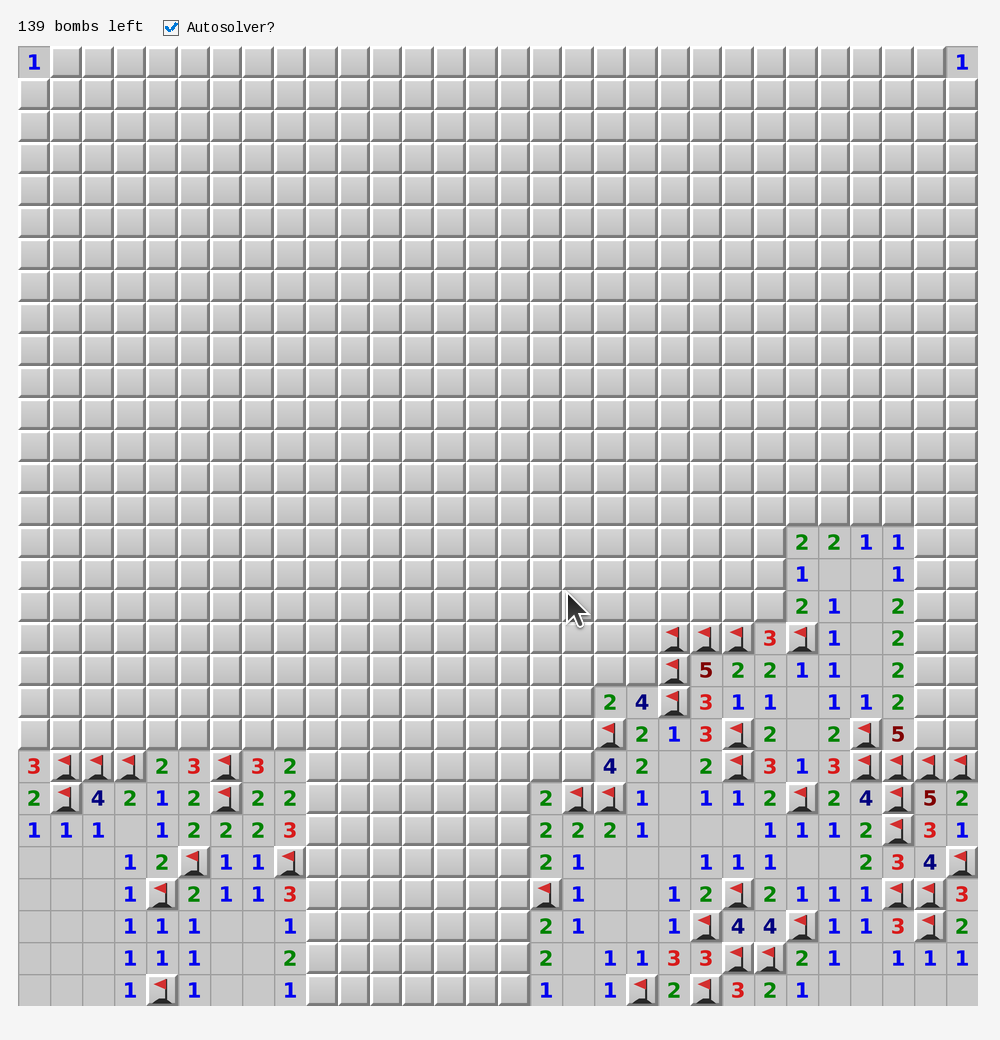
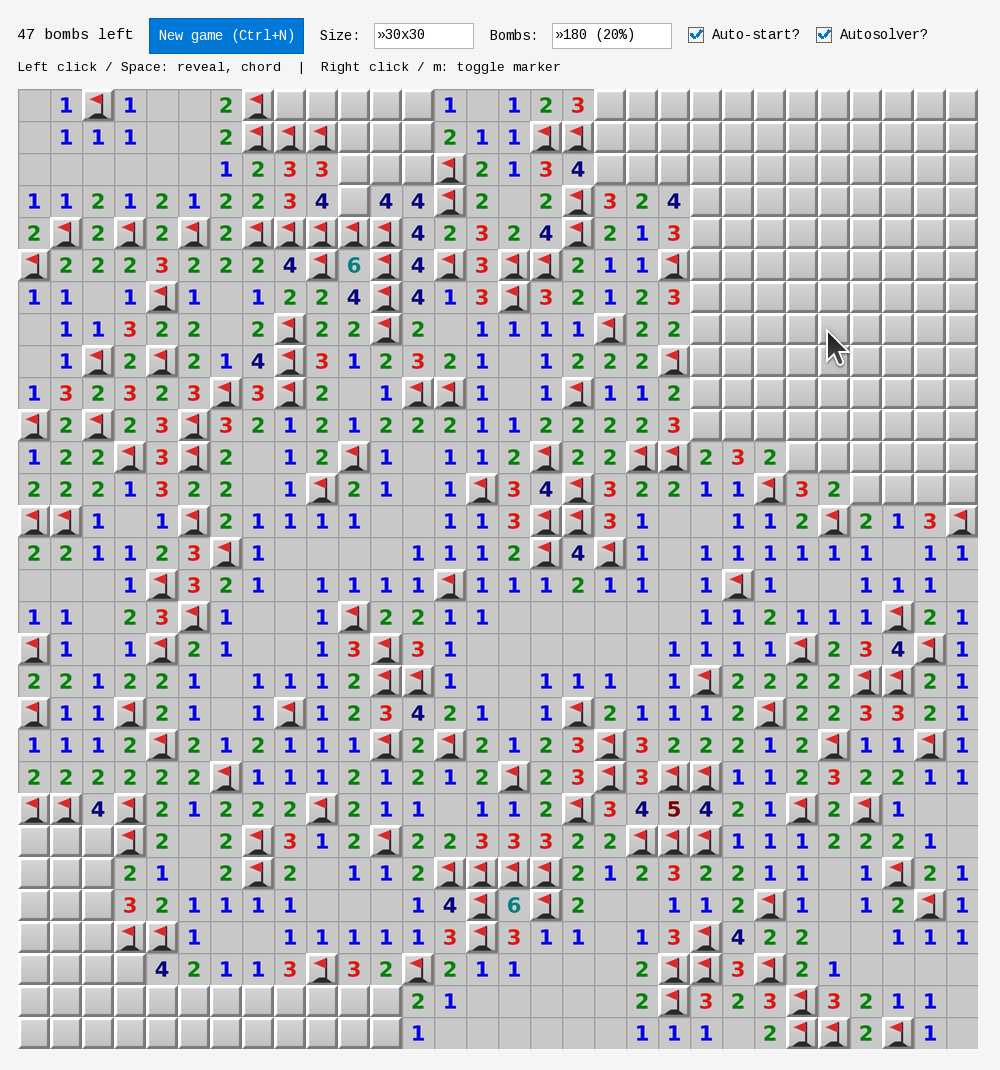
Release v0.3.0 - more bells and whistles - direct browser play support (e.g. in github pages)

diff --git a/README.md b/README.md
@@ -13,6 +13,13 @@ public API and its win/lose callbacks.
   <img src="resources/screenshot.png" alt="Minesweeper screenshot" width="480">
 </p>
 
+## Play in your browser
+
+**[Play Minesweeper online](https://wolfgang371.github.io/minesweeper/)** — the
+same game compiled to WebAssembly (crymble-ui's web build), nothing to install.
+Needs a current desktop browser (Chrome, Edge, Firefox or Safari) with a mouse
+and a keyboard; about 1.4 MB to download.
+
 ## Download
 
 Prebuilt binaries are attached to each [GitHub Release](../../releases/latest):
@@ -31,6 +38,12 @@ Prebuilt binaries are attached to each [GitHub Release](../../releases/latest):
   under the mouse cursor (Space reveals/chords, **m** toggles a marker).
 - **Autosolver?** — when checked, the solver repeatedly applies the obvious
   deductions until it gets stuck (or wins/loses).
+- **Auto-start?** — when checked (default), every new game starts with a free
+  opening: the biggest connected empty region is revealed up front. Takes effect
+  on the next new game.
+- **New game** (or **F2**) — abandon the current game and start a fresh one.
+- **Size** / **Bombs** — board size (8x8 up to 30x30) and bomb count (10–25% of
+  the cells, 20% by default). Changing either starts a new game.
 - On game over, a popup offers **Yes** (play again) or **No** (quit).
 
 ## Build & run
@@ -51,6 +64,20 @@ During development you can also run directly:
 source setup.sh
 crystal run src/minesweeper-gui.cr
 ```
+
+### Web build (WebAssembly)
+
+The same source also builds as a static web page (crymble-ui >= 1.9,
+Linux x86_64 build host):
+
+```sh
+bin/crymble-web setup                # once: the WebAssembly toolchain (~1 GB, a few minutes)
+bin/crymble-web build minesweeper    # → bin/web/minesweeper/ (the whole site)
+bin/crymble-web serve minesweeper    # try it: http://127.0.0.1:8765/
+```
+
+See crymble-ui's [docs/WEB.md](https://github.com/wolfgang371/crymbleui/blob/main/docs/WEB.md)
+for the toolchain's requirements and what differs from the desktop.
 
 ### Windows build (cross-compiled from Linux)
 
